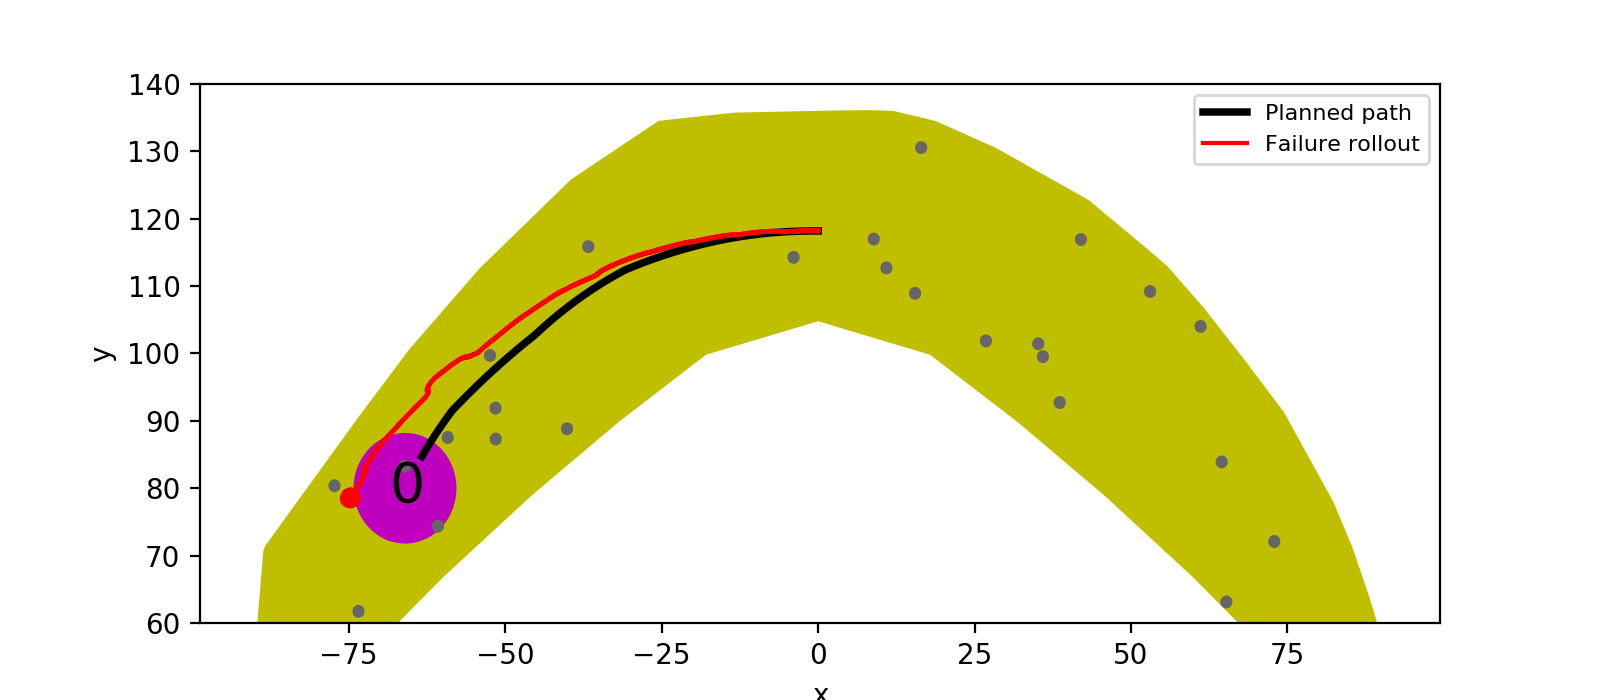
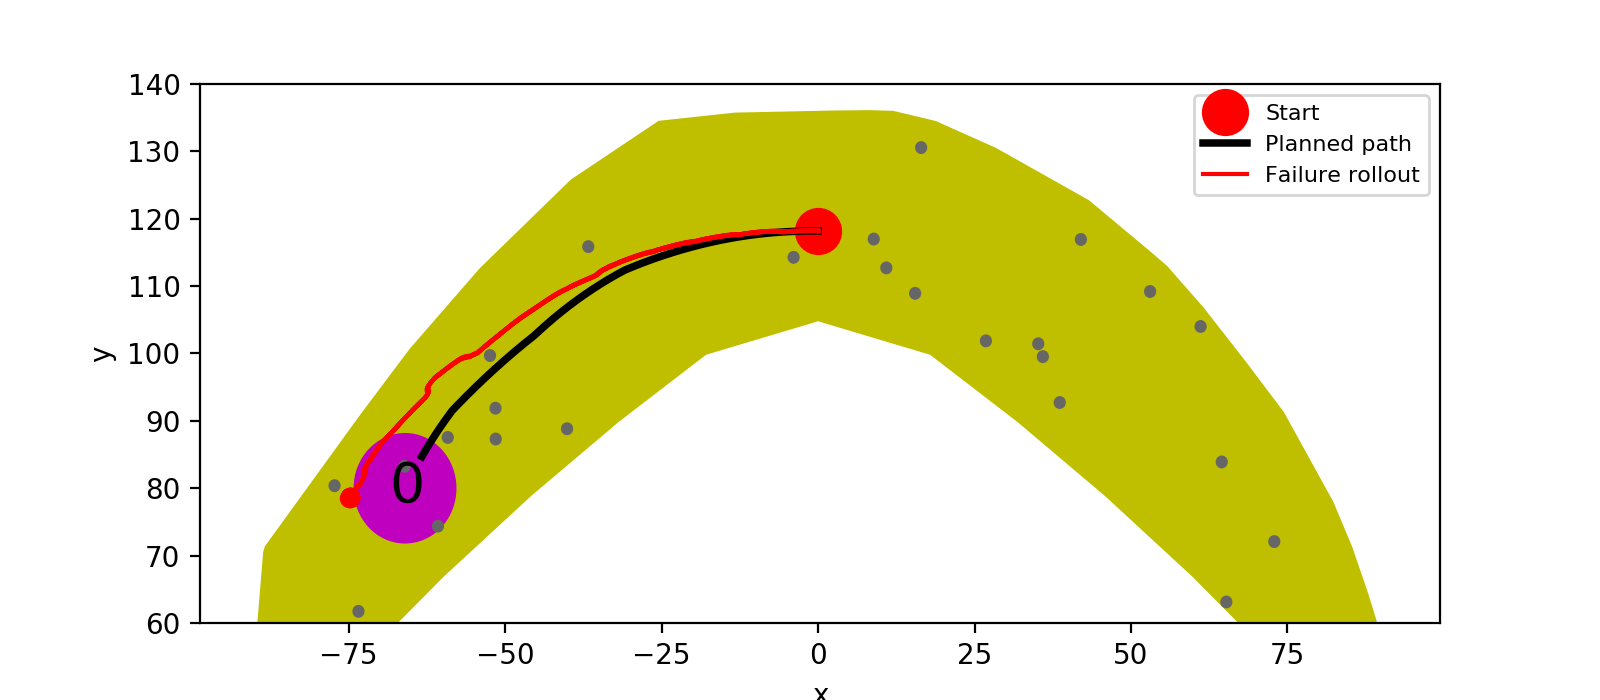
0729v4

Changed region(s): [[0.75, 0.12, 0.9062, 0.3], [0.5, 0.3, 0.5312, 0.36]]

diff --git a/beliefspaceplanning/rollout_node/src/corl_rollout_gazebo.py b/beliefspaceplanning/rollout_node/src/corl_rollout_gazebo.py
@@ -406,7 +406,7 @@ for obs_idxx in [20]:
                                             ax.add_artist(obs)
                                 except:
                                     pass
-                                #plt.plot(Straj[0,0], Straj[0,1], 'ok', markersize=16, color ='r',label='Start')
+                                plt.plot(Straj[0,0], Straj[0,1], 'ok', markersize=16, color ='r',label='Start')
                                 plt.plot(Straj[:,0], Straj[:,1], '-k', linewidth = 2.7, label='Planned path')
                                 with open(pklfile,'rb') as f:  
                                     Pro = pickle.load(f,encoding='latin')
